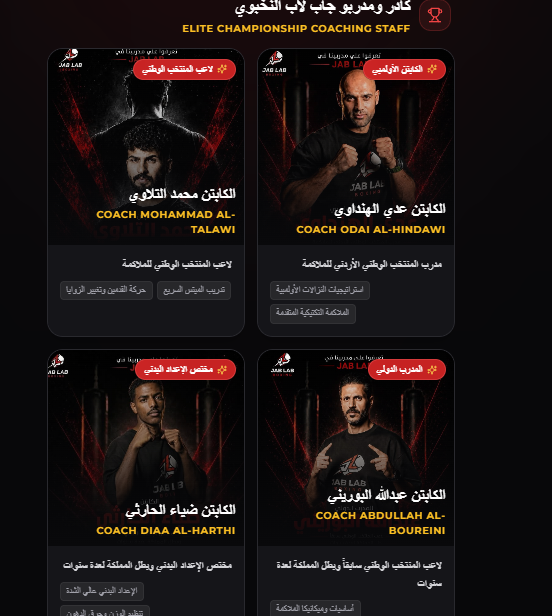
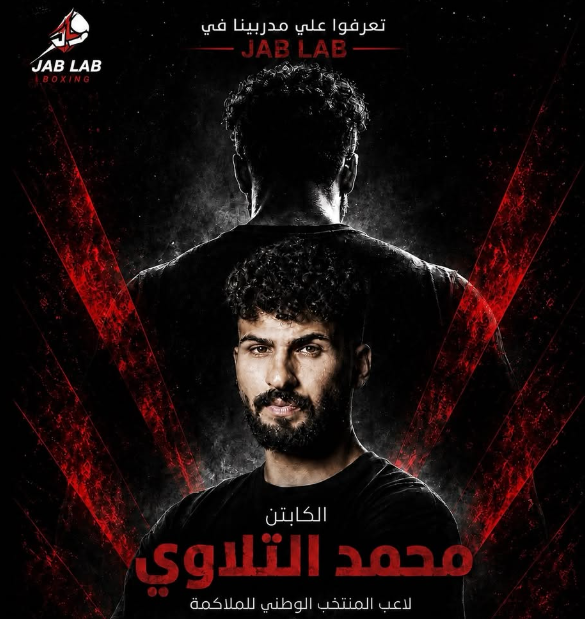
feat: add image position and scale controls for coaches in admin dashboard

diff --git a/src/components/dashboard/CoachFormModal.tsx b/src/components/dashboard/CoachFormModal.tsx
@@ -33,6 +33,8 @@ export const CoachFormModal: React.FC<Props> = ({ coach, onClose, onSaved }) => 
     badgeAr: coach?.badgeAr || "",
     whatsappMessage: coach?.whatsappMessage || "",
     whatsappMessageAr: coach?.whatsappMessageAr || "",
+    imagePosition: (coach as any)?.imagePosition || "center top",
+    imageScale: (coach as any)?.imageScale ?? 1.0,
   });
 
   const handleChange = (e: React.ChangeEvent<HTMLInputElement>) => {
@@ -117,6 +119,80 @@ export const CoachFormModal: React.FC<Props> = ({ coach, onClose, onSaved }) => 
               <input type="hidden" name="roleEn" value={formData.roleAr} />
               <input type="hidden" name="specialtiesEn" value={formData.specialtiesAr} />
               <input type="hidden" name="posterSubtitleAr" value={formData.roleAr} />
+
+              {/* Image Position & Scale Controls */}
+              <div className="md:col-span-2 bg-zinc-900 border border-white/10 rounded-2xl p-4">
+                <label className="block text-xs font-bold text-zinc-300 mb-3">🖼 ضبط الصورة</label>
+                <div className="flex gap-6 items-start flex-wrap">
+                  
+                  {/* Preview */}
+                  <div className="relative w-28 h-28 rounded-xl overflow-hidden bg-zinc-800 flex-shrink-0 border border-white/10">
+                    {formData.image && (
+                      // eslint-disable-next-line @next/next/no-img-element
+                      <img
+                        src={formData.image}
+                        alt="preview"
+                        className="w-full h-full object-cover"
+                        style={{
+                          objectPosition: formData.imagePosition,
+                          transform: `scale(${formData.imageScale})`,
+                          transformOrigin: formData.imagePosition,
+                        }}
+                      />
+                    )}
+                    <div className="absolute bottom-1 right-1 bg-black/60 text-white text-[9px] px-1 rounded">معاينة</div>
+                  </div>
+
+                  <div className="flex-1 space-y-3 min-w-[160px]">
+                    {/* 3x3 Position Grid */}
+                    <div>
+                      <p className="text-[10px] text-zinc-500 mb-1.5">موضع الصورة</p>
+                      <div className="grid grid-cols-3 gap-1 w-fit">
+                        {[
+                          ["right top", "↖"], ["center top", "↑"], ["left top", "↗"],
+                          ["right center", "←"], ["center center", "•"], ["left center", "→"],
+                          ["right bottom", "↙"], ["center bottom", "↓"], ["left bottom", "↘"],
+                        ].map(([pos, icon]) => (
+                          <button
+                            key={pos}
+                            type="button"
+                            onClick={() => setFormData(prev => ({ ...prev, imagePosition: pos }))}
+                            className={`w-8 h-8 rounded-lg text-sm flex items-center justify-center transition-all ${
+                              formData.imagePosition === pos
+                                ? "bg-red-600 text-white"
+                                : "bg-zinc-800 text-zinc-400 hover:bg-zinc-700"
+                            }`}
+                          >
+                            {icon}
+                          </button>
+                        ))}
+                      </div>
+                    </div>
+
+                    {/* Scale Slider */}
+                    <div>
+                      <div className="flex items-center justify-between mb-1">
+                        <p className="text-[10px] text-zinc-500">التكبير</p>
+                        <span className="text-[10px] text-red-400 font-bold">{Number(formData.imageScale).toFixed(1)}x</span>
+                      </div>
+                      <input
+                        type="range"
+                        min="1"
+                        max="2"
+                        step="0.05"
+                        value={formData.imageScale}
+                        onChange={(e) => setFormData(prev => ({ ...prev, imageScale: parseFloat(e.target.value) }))}
+                        className="w-full accent-red-500"
+                      />
+                      <div className="flex justify-between text-[9px] text-zinc-600 mt-0.5">
+                        <span>1x طبيعي</span>
+                        <span>2x تكبير</span>
+                      </div>
+                    </div>
+                  </div>
+                </div>
+              </div>
+
             </div>
           </form>
         </div>

diff --git a/src/components/coaches/CoachCard.tsx b/src/components/coaches/CoachCard.tsx
@@ -44,7 +44,12 @@ export const CoachCard: React.FC<CoachCardProps> = ({ coach }) => {
             alt={coach.nameAr}
             fill
             sizes="(max-width: 640px) 50vw, 220px"
-            className="object-cover object-center transition-transform duration-500 group-hover:scale-105"
+            className="object-cover transition-transform duration-500 group-hover:scale-105"
+            style={{
+              objectPosition: (coach as any).imagePosition || "center top",
+              transform: `scale(${(coach as any).imageScale || 1})`,
+              transformOrigin: (coach as any).imagePosition || "center top",
+            }}
             onError={() => setImageError(true)}
           />
         ) : (
